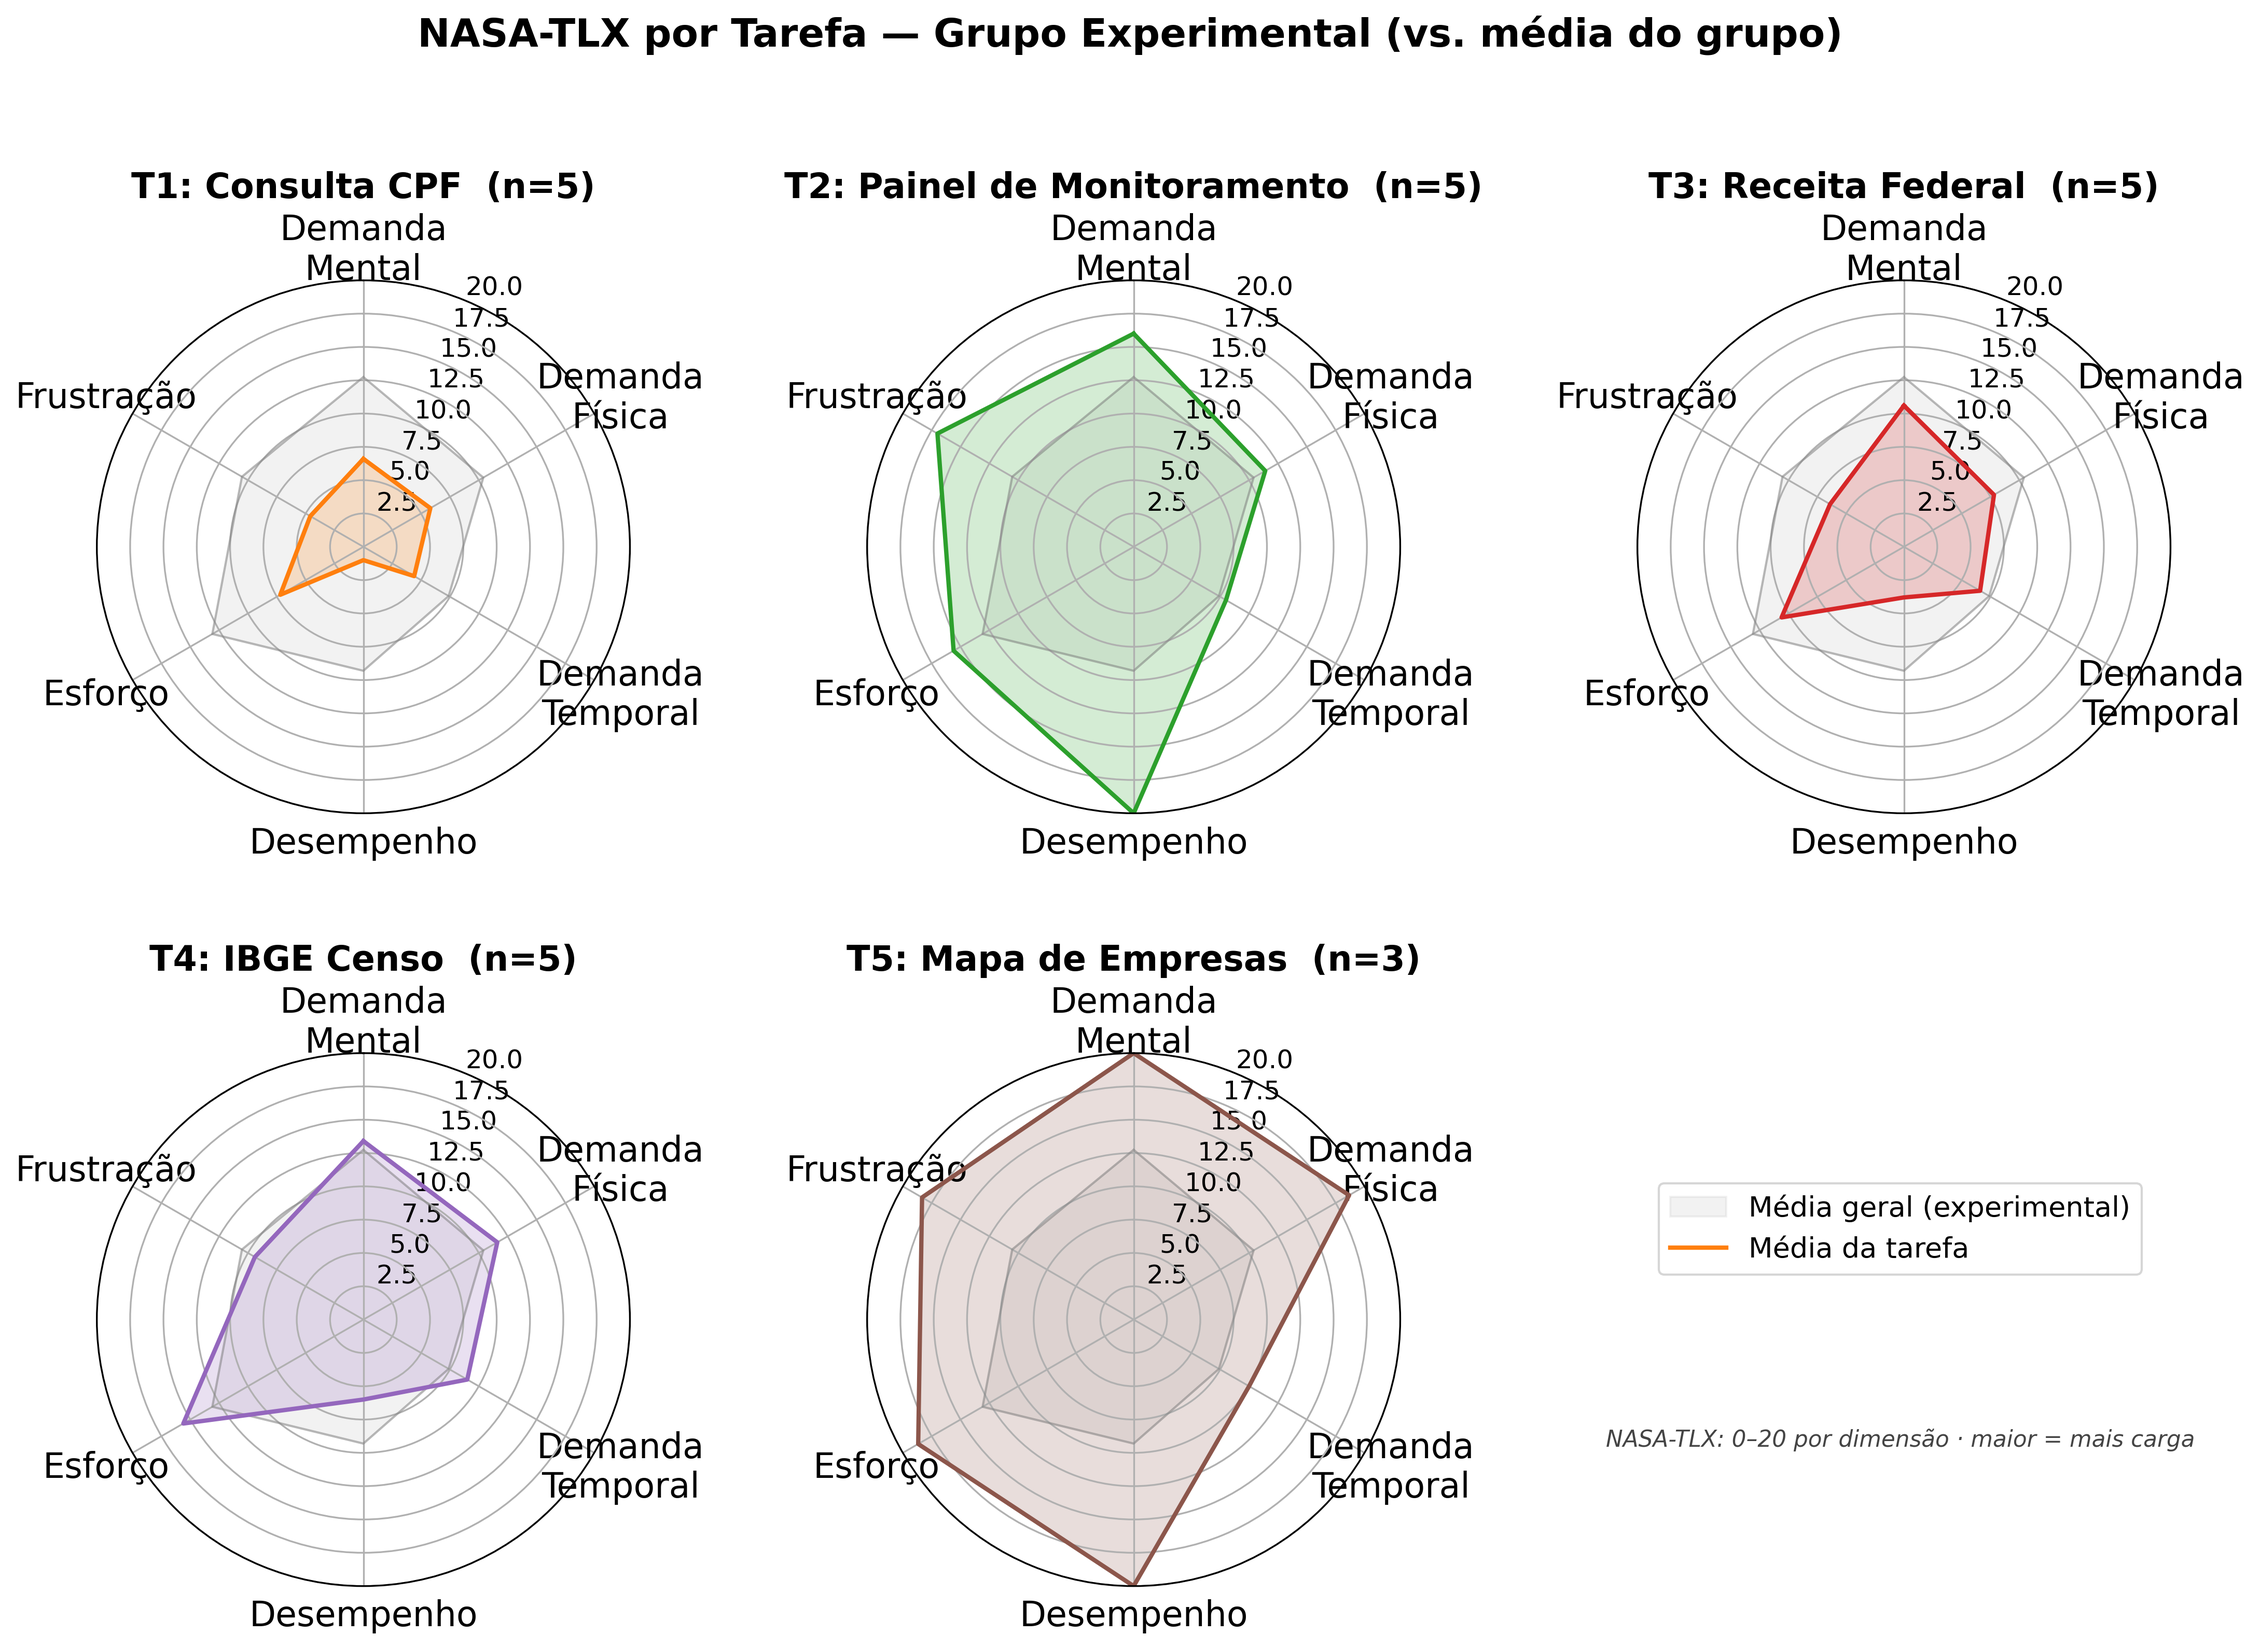
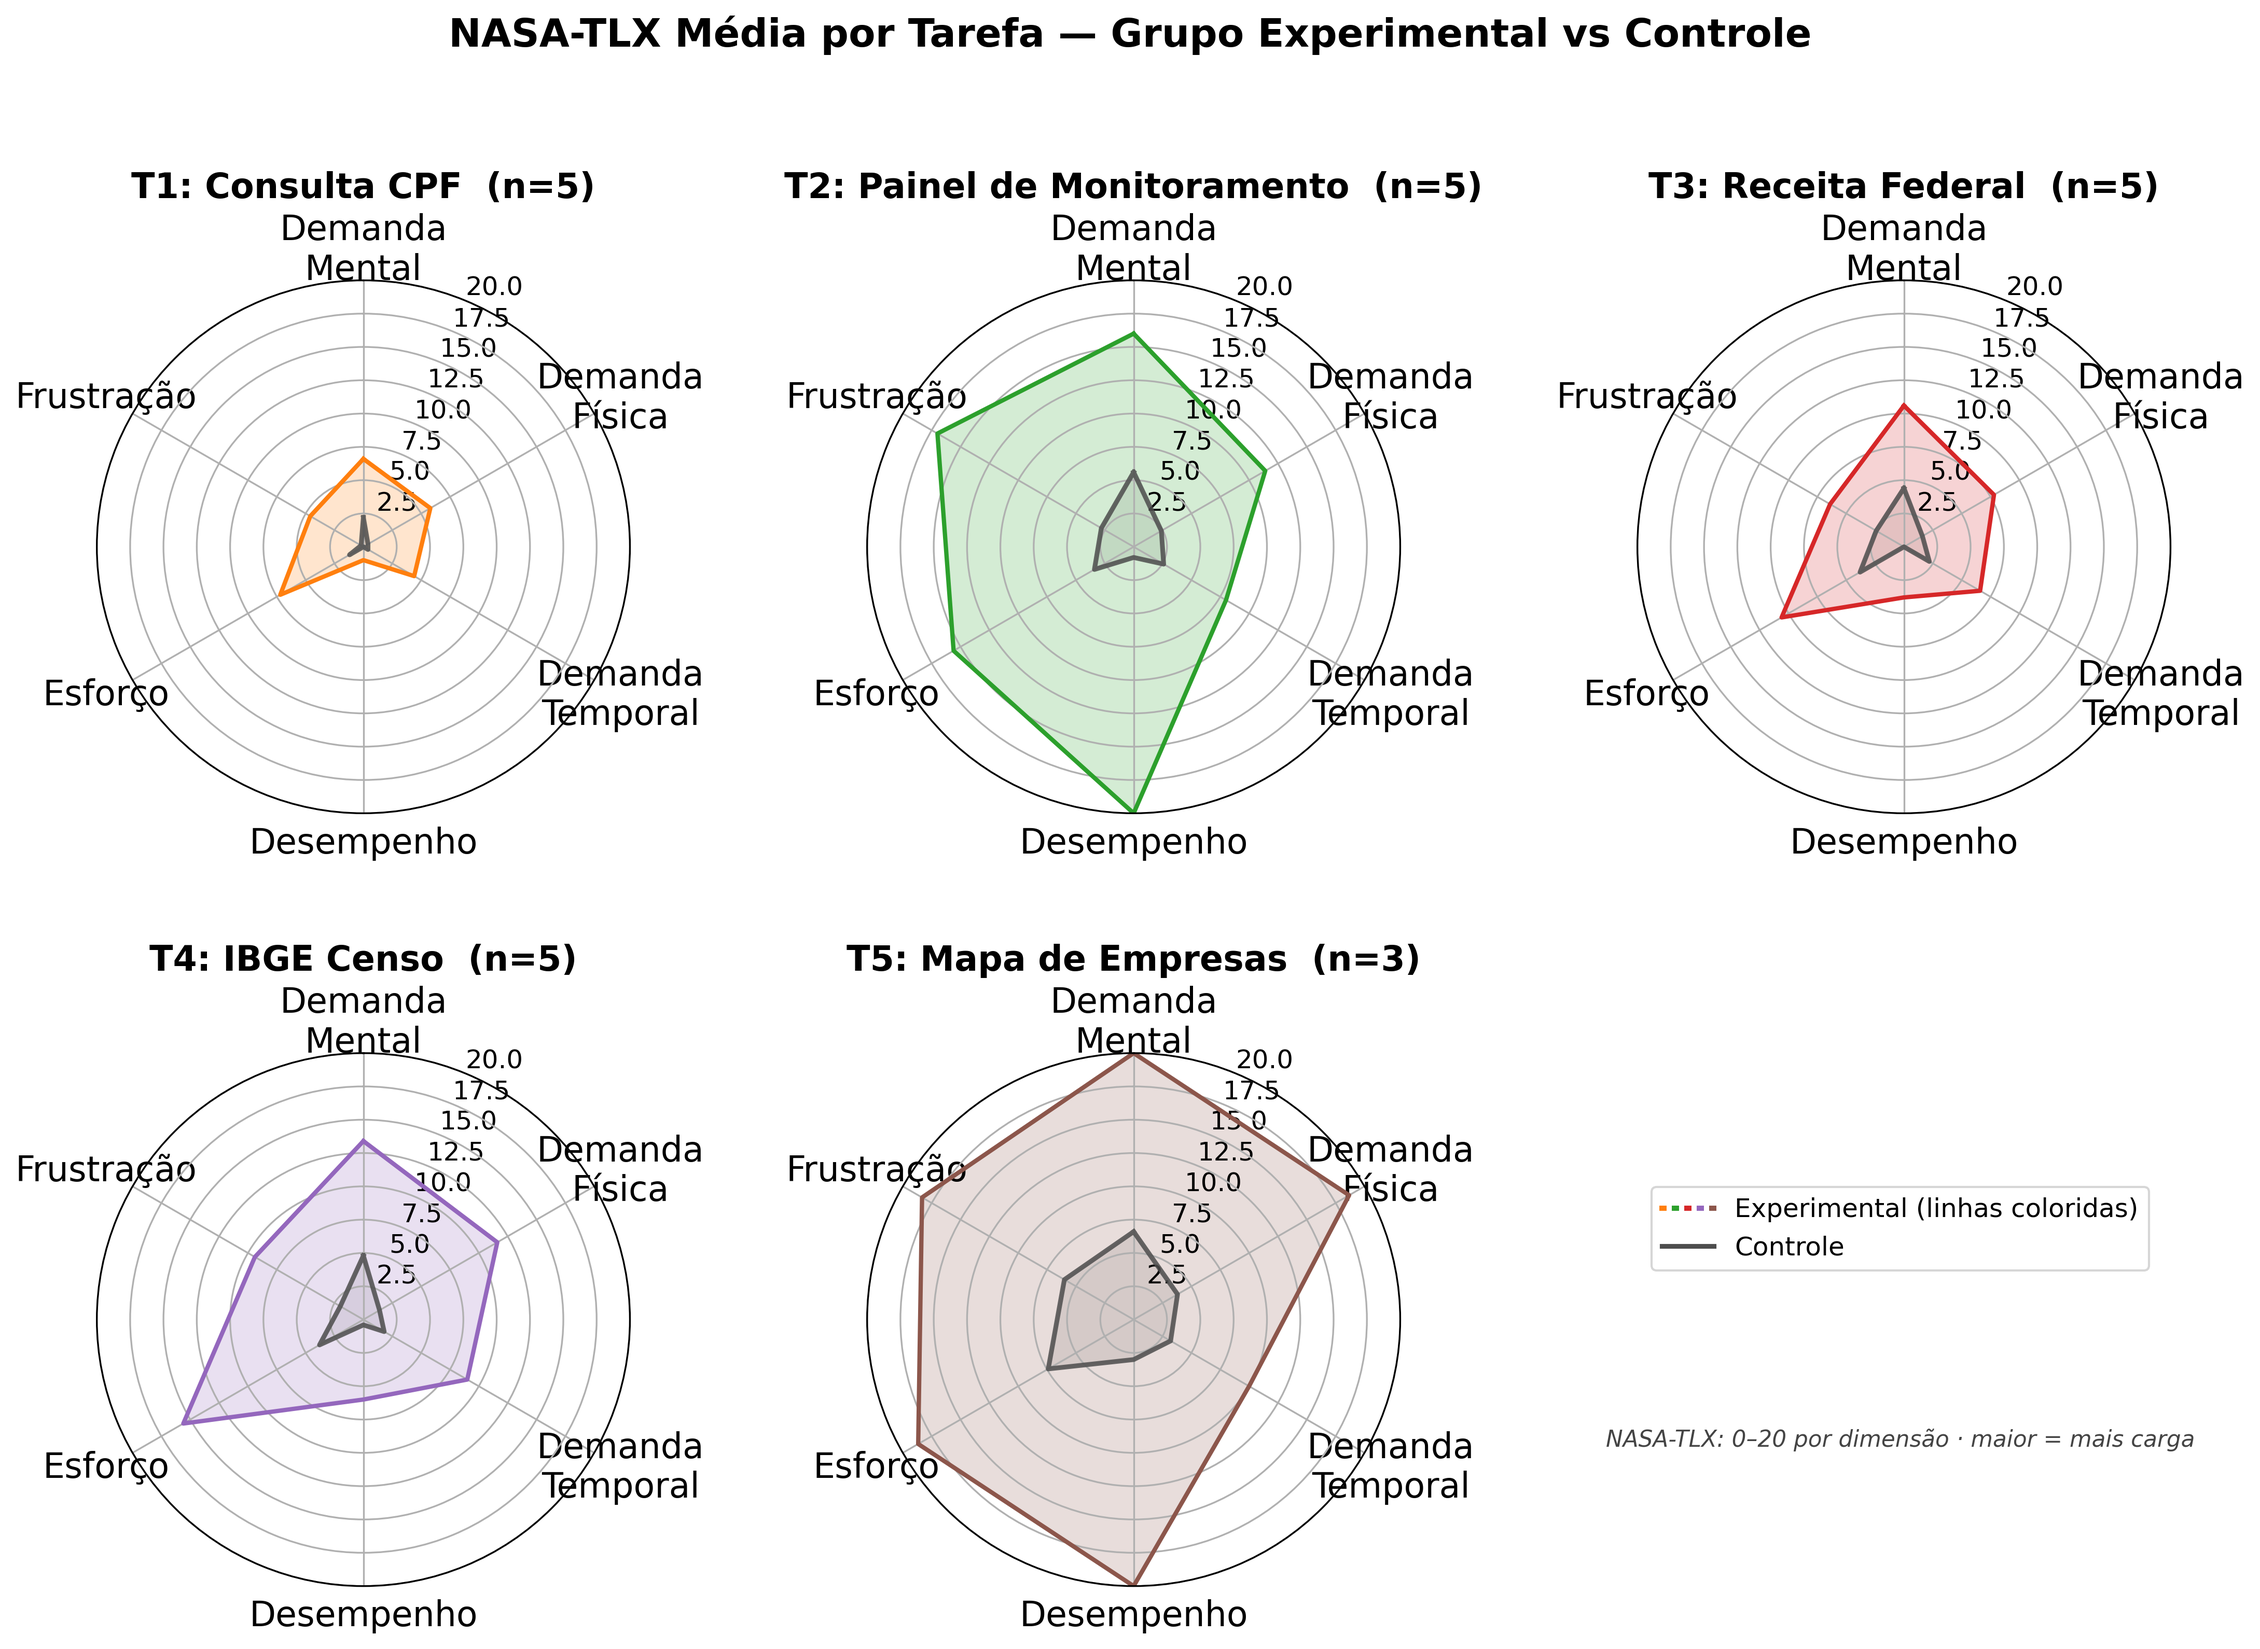
Atualização gráficos Q2

diff --git a/main.py b/main.py
@@ -1,6 +1,8 @@
 import pandas as pd
 import numpy as np
 import matplotlib.pyplot as plt
+from matplotlib.lines import Line2D
+from matplotlib.legend_handler import HandlerTuple
 
 # Carregar os dados
 df = pd.read_csv("coleta_dados_pesquisa_v3 - asq_nasatlx.csv")
@@ -47,9 +49,12 @@ angles = np.linspace(0, 2 * np.pi, num_vars, endpoint=False).tolist()
 angles += angles[:1]
 
 
-def gerar_radar_grupo(df_grupo, grupo_key, grupo_nome, arquivo):
-    """Gera a grade 2x3 de radares NASA-TLX para um único grupo."""
-    # Média geral do grupo (referência de fundo)
+def gerar_radar_grupo(df_grupo, grupo_key, grupo_nome, arquivo,
+                      ref_por_tarefa=None, ref_nome=None):
+    """Gera a grade 2x3 de radares NASA-TLX para um único grupo.
+    ref_por_tarefa: dict {tarefa: vetor de referência} a usar como fundo cinza
+    (ex.: média do controle por tarefa). Se None, usa a média geral do grupo."""
+    # Média geral do grupo (referência de fundo padrão)
     overall_mean = df_grupo[tlx_cols].mean().values
     overall_mean = np.append(overall_mean, overall_mean[0])
 
@@ -77,15 +82,20 @@ def gerar_radar_grupo(df_grupo, grupo_key, grupo_nome, arquivo):
         ax.tick_params(axis='y', labelsize=12)
         ax.set_ylim(0, TLX_MAX)
 
-        # Média geral do grupo como referência (fundo cinza)
-        ax.plot(angles, overall_mean, linewidth=1, linestyle='solid',
-                color='gray', alpha=0.5)
-        ax.fill(angles, overall_mean, color='gray', alpha=0.1,
-                label=f'Média geral ({grupo_nome.lower()})')
+        # Referência de fundo (cinza): controle por tarefa, ou média geral do grupo
+        if ref_por_tarefa is not None:
+            ref = ref_por_tarefa[tarefa_num]
+            ref_label = ref_nome
+        else:
+            ref = overall_mean
+            ref_label = f'Média geral ({grupo_nome.lower()})'
+        ax.plot(angles, ref, linewidth=2.2, linestyle='solid',
+                color='#4d4d4d', alpha=0.85, zorder=3)
+        ax.fill(angles, ref, color='gray', alpha=0.18, label=ref_label, zorder=1)
 
         # Tarefa específica
         ax.plot(angles, t_mean, linewidth=2, linestyle='solid',
-                color=cores[i], label='Média da tarefa')
+                color=cores[i], label='Experimental')
         ax.fill(angles, t_mean, color=cores[i], alpha=0.2)
 
         ax.set_title(f'{nomes_tarefas[tarefa_num]}  (n={n})',
@@ -94,16 +104,22 @@ def gerar_radar_grupo(df_grupo, grupo_key, grupo_nome, arquivo):
     # Ocultar o 6º gráfico (só 5 tarefas)
     fig.delaxes(axes[5])
 
+    vs_txt = f'vs. {ref_nome.lower()}' if ref_por_tarefa is not None else 'vs. média do grupo'
     plt.suptitle(
-        f'NASA-TLX por Tarefa — Grupo {grupo_nome} (vs. média do grupo)',
+        f'NASA-TLX Média por Tarefa — Grupo {grupo_nome} vs Controle',
         size=18, fontweight='bold', y=1.05)
     plt.tight_layout()
     fig.subplots_adjust(hspace=0.45)
 
-    # Legenda no espaço vazio do 6º subplot
-    handles, labels_leg = axes[0].get_legend_handles_labels()
-    fig.legend(handles, labels_leg, loc='center',
-               bbox_to_anchor=(0.83, 0.27), fontsize=13)
+    # Legenda no espaço vazio do 6º subplot: cores = grupo da figura; cinza = referência
+    ref_label_geral = ref_nome if ref_por_tarefa is not None \
+        else f'Média geral ({grupo_nome.lower()})'
+    exp_handle = tuple(Line2D([0], [0], color=cores[i], lw=2.4) for i in range(5))
+    ref_handle = Line2D([0], [0], color='#4d4d4d', lw=2.2)
+    fig.legend([exp_handle, ref_handle],
+               [f'{grupo_nome} (linhas coloridas)', ref_label_geral],
+               handler_map={tuple: HandlerTuple(ndivide=None)},
+               loc='center', bbox_to_anchor=(0.83, 0.27), fontsize=12)
     fig.text(0.83, 0.13,
              'NASA-TLX: 0–20 por dimensão · maior = mais carga',
              ha='center', fontsize=10.5, color='#444', style='italic')
@@ -113,9 +129,18 @@ def gerar_radar_grupo(df_grupo, grupo_key, grupo_nome, arquivo):
     print(f'Salvo: {arquivo}')
 
 
-# Uma figura por grupo
+# Média do controle por tarefa (referência do radar experimental)
+df_con = df[df['grupo'] == 'con']
+ref_controle = {}
+for t in range(1, 6):
+    m = df_con[df_con['tarefa_num'] == t][tlx_cols].mean().values
+    ref_controle[t] = np.append(m, m[0])
+
+# Experimental: cada tarefa comparada à média do CONTROLE naquela tarefa
 gerar_radar_grupo(df[df['grupo'] == 'exp'], 'exp', 'Experimental',
-                  'radar_tlx_experimental.png')
+                  'radar_tlx_experimental.png',
+                  ref_por_tarefa=ref_controle, ref_nome='Controle')
+# Controle: mantém a comparação vs. média do próprio grupo
 gerar_radar_grupo(df[df['grupo'] == 'con'], 'con', 'Controle',
                   'radar_tlx_controle.png')
 

diff --git a/gerar_dificuldade_combinado.py b/gerar_dificuldade_combinado.py
@@ -1,0 +1,110 @@
+# -*- coding: utf-8 -*-
+"""
+Distribuição de status de conclusão por tarefa — experimental E controle juntos.
+Cada tarefa = uma barra dividida: experimental em cima, controle embaixo.
+Eixo X = NÚMERO DE PESSOAS (n=5 por grupo), não porcentagem.
+Junta dificuldade_barras_empilhadas (experimental) + _controle num só.
+Saída: dificuldade_barras_empilhadas_combinado.png
+"""
+import pandas as pd
+import numpy as np
+import matplotlib.pyplot as plt
+from matplotlib.patches import Patch
+
+df = pd.read_csv("coleta_dados_pesquisa_v3 - tarefas_execucao.csv")
+df = df.dropna(subset=['participante_id', 'tarefa_num', 'status_conclusao'])
+df['tarefa_num'] = df['tarefa_num'].astype(int)
+df['grupo'] = df['participante_id'].str[:3].map({'exp': 'experimental', 'con': 'controle'})
+
+nomes_tarefas = {
+    1: 'T1: Consulta CPF',
+    2: 'T2: Painel de Monitoramento',
+    3: 'T3: Receita Federal',
+    4: 'T4: IBGE Censo',
+    5: 'T5: Mapa de Empresas',
+}
+status_ordem = [
+    'sucesso_completo',
+    'sucesso_com_assistencia',
+    'nao_concluida_tempo',
+    'nao_concluida_barreira',
+    'nao_realizada',
+]
+status_labels = {
+    'sucesso_completo': 'Sucesso completo',
+    'sucesso_com_assistencia': 'Sucesso com assistência',
+    'nao_concluida_tempo': 'Não concluída (tempo)',
+    'nao_concluida_barreira': 'Não concluída (barreira)',
+    'nao_realizada': 'Não realizada',
+}
+status_cores = {
+    'sucesso_completo':         '#2ca02c',
+    'sucesso_com_assistencia':  '#a8d96a',
+    'nao_concluida_tempo':      '#ffbb33',
+    'nao_concluida_barreira':   '#d62728',
+    'nao_realizada':            '#6c757d',
+}
+
+
+def tabela(grupo):
+    """tarefa × status, em CONTAGEM (pessoas), grupo filtrado."""
+    sub = df[df['grupo'] == grupo]
+    return (sub.groupby(['tarefa_num', 'status_conclusao']).size()
+               .unstack(fill_value=0)
+               .reindex(index=[1, 2, 3, 4, 5], fill_value=0)
+               .reindex(columns=status_ordem, fill_value=0))
+
+
+cnt = {'experimental': tabela('experimental'), 'controle': tabela('controle')}
+
+# Ordem fixa T1->T5 de cima para baixo (barh: y=0 embaixo, então invertido)
+ordem_tarefas = [5, 4, 3, 2, 1]
+
+# Cada tarefa ocupa uma faixa; experimental (cima) e controle (baixo) ENCOSTADOS
+OFF = 0.22
+BAR_H = 2 * OFF      # = altura -> as duas barras se tocam (sem espaço entre elas)
+fig, ax = plt.subplots(figsize=(13, 7.5))
+for i, t in enumerate(ordem_tarefas):
+    for grupo, sinal, tag in (('experimental', +1, 'Experimental'),
+                              ('controle', -1, 'Controle')):
+        yc = i + sinal * OFF
+        left = 0
+        linha = cnt[grupo].loc[t]
+        for status in status_ordem:
+            v = int(linha[status])
+            if v > 0:
+                ax.barh(yc, v, left=left, height=BAR_H, color=status_cores[status],
+                        edgecolor='white', linewidth=1.2, zorder=3)
+                left += v
+        # rótulo do grupo à direita das barras
+        ax.text(5.12, yc, tag, ha='left', va='center', fontsize=10,
+                fontweight='bold', color='#555')
+
+# Linhas verticais a cada participante (1..5): dividem as barras em células = pessoas
+for xline in range(1, 6):
+    ax.axvline(xline, color='white', lw=1.6, alpha=0.95, zorder=4)
+
+ax.set_yticks(range(len(ordem_tarefas)))
+ax.set_yticklabels([nomes_tarefas[t] for t in ordem_tarefas], fontsize=12, fontweight='bold')
+ax.set_xlim(0, 6.6)
+ax.set_xticks(range(0, 6))
+ax.set_xlabel('Número de pessoas (n = 5 por grupo)', size=12, fontweight='bold')
+ax.set_ylim(-0.6, len(ordem_tarefas) - 0.4)
+ax.set_title('Status de conclusão por tarefa — experimental (cima) vs. controle (baixo)\n'
+             '(em número de pessoas; tarefas em ordem T1→T5, de cima para baixo)',
+             size=15, fontweight='bold', pad=15)
+ax.set_axisbelow(True)
+ax.grid(axis='x', linestyle='--', alpha=0.25)
+ax.spines['top'].set_visible(False)
+ax.spines['right'].set_visible(False)
+
+handles = [Patch(facecolor=status_cores[s], label=status_labels[s]) for s in status_ordem]
+ax.legend(handles=handles, loc='lower center', bbox_to_anchor=(0.5, -0.20),
+          ncol=3, frameon=False, fontsize=10)
+
+plt.tight_layout()
+plt.savefig('dificuldade_barras_empilhadas_combinado.png', dpi=300, bbox_inches='tight')
+print('Salvo: dificuldade_barras_empilhadas_combinado.png')
+for g in ('experimental', 'controle'):
+    print(f'\n[{g}] contagem por tarefa:')
+    print(cnt[g].loc[ordem_tarefas])
